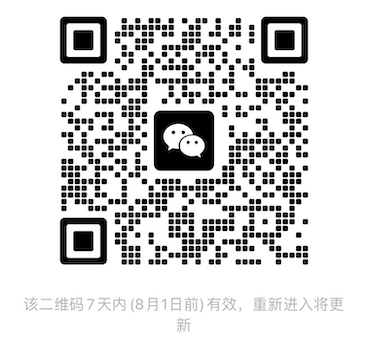
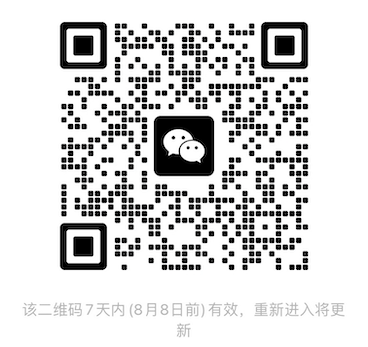
update wechat QRCode

diff --git a/_post_jp/2023-06-27-From Big Data to Graph Computing - Graph On BigData.md b/_post_jp/2023-06-27-From Big Data to Graph Computing - Graph On BigData.md
@@ -1,0 +1,141 @@
+---
+layout: post
+read_time: true
+show_date: true
+show_author: true
+title: "ビッグデータからグラフ計算へ-Graph On BigData"
+date: 2023-06-27
+tags: [大数据, 图计算, TuGraph, GeaFlow, 开源, github]
+category: opinion
+author: 彭志伟
+description: "ビッグデータからグラフ計算へ-Graph On BigData"
+---
+
+## 背景
+
+2003年にGoogleの3つのビッグデータ分野のクラシック論文であるGFS、MapReduce、BigTableが発表されて以来、ビッグデータ領域は大きく発展してきました。特にオープンソースのビッグデータエンジンは、Hadoop、Hive、Storm、Spark、Flink、Prestoなどのさまざまな優れたオープンソースプロジェクトが次々と登場しました。これらのエンジンは、オフライン計算、ストリーム処理、OLAPクエリ、バッチストリームなど、さまざまな計算形態をカバーし、大規模データの処理技術がますます改善され多様化しています。
+
+これらのビッグデータエンジンは主にテーブルモデルのデータを処理しており、処理するデータをテーブルモデルでモデリングして加工処理を行います。テーブルモデルは比較的単純で理解しやすいですが、複雑な関係演算や表現の処理にはかなりの困難さがあります。テーブルモデルは、テーブル間の関連を処理するためにJoinの方法を使用しますが、この方法は大量のシャッフルを引き起こし、実行リソースを増やします。特に関連度が高い場合、Joinの方法の欠点はより明確になります。また、最短パス、k-hopなどの複雑な関係の記述には、SQLのようなテーブルモデルの言語でも表現するのは難しいです。
+
+グラフモデルは、点と辺を基本要素として定義するデータモデルとして、関連関係を自然に記述することができます。グラフモデルでは、点はエンティティを表し、辺は関係を表します。たとえば、ソーシャルネットワークの関係グラフでは、各人は1つの点で表され、人と人の関係は辺で表されます。人と人の間にはさまざまな複雑な関係が存在することがあり、これらの関係はさまざまな辺で表すことができます。グラフモデルをベースにすることで、複雑な関係とその演算をうまく記述できるだけでなく、グラフのストレージモデルは自然に点と辺の関係を格納し、計算面ではより優れた計算パフォーマンスを得ることができます。
+
+![image](../../../../assets/images/posts/20230627/zhuanzhang.png)
+
+## リアルタイムグラフ計算エンジン-GeaFlow
+
+アリペイのリスク管理シナリオでは、環路の存在を確認するために、複数の転送関係を検索する必要があります。ログのアトリビューション分析のシナリオでは、ユーザーの行動パスを分析する必要があります。これらのシナリオでは、一方で関係が複雑であり、一方で計算のリアルタイム性が要求されます。ビジネスは通常、分単位または秒単位の遅延が必要です。また、グラフデータは大きく、数百億または数兆の点エッジスケールに達することがあります。従来のビッグデータエンジンは、Spark GraphXは大規模なグラフデータの処理能力を持っていますが、主にオフライン計算シナリオに特化しており、リアルタイム性の要件を満たすことはできません。Flinkは強力なリアルタイム計算能力を持っており、しかし、多跳のリアルタイムJoin関連計算、特に大規模なデータスケールのシナリオを扱うのが難しいです。
+
+これらの問題と課題に直面したアリペイのグラフ計算チームは、実際の問題に基づいて、数年間の探索と実践の結果、分散リアルタイムグラフ計算エンジンGeaFlow（ブランド名TuGraph-Analytics）を実現しました。GeaFlowは、グラフモデルを基本的なデータモデルとし、グラフモデルを基にグラフ計算のプログラミングインターフェースを定義し、ストリーム処理能力と組み合わせて、ストリームグラフ計算の能力を実現しています。DSL言語のレベルでは、GeaFlowは表処理言語SQLとグラフクエリ言語ISO / GQLを組み合わせて、グラフと表を統合したデータ分析能力を実現しています。GeaFlowのストリームグラフ計算能力により、金融シーンでの大規模なデータの複雑な関連関係のリアルタイム計算の問題をうまく解決しています。
+
+## GeaFlow全体のアーキテクチャ
+
+GeaFlowの全体的なアーキテクチャは、次のレベルで構成されています：
+
+![image](../../../../assets/images/posts/20230627/geaflow_arch.png)
+
+* GeaFlow DSL: GeaFlowはユーザーにグラフとテーブルの統合分析言語を提供し、SQL + ISO / GQLの方式を採用しています。ユーザーは、SQLプログラミングのような方法でリアルタイムグラフ計算タスクを記述することができます。
+* GraphView API: GeaFlowはGraphViewを中心に定義された一連のグラフ計算のプログラミングインターフェースであり、グラフの構築、グラフ計算、ストリームAPIインターフェースを含んでいます。
+* GeaFlowランタイム: GeaFlowランタイムには、GeaFlowグラフオペレータ、タスクスケジューリング、フェイルオーバー、シャッフルなどのコア機能が含まれています。
+* GeaFlowステート: GeaFlowのグラフの状態ストレージであり、グラフの頂点エッジデータを格納するために使用されます。また、ストリーム計算の状態、たとえば集約状態もステートに格納されます。
+* K8Sデプロイメント: GeaFlowはK8Sを使用してデプロイおよび実行することができます。
+* GeaFlowコンソール: GeaFlowの管理プラットフォームであり、ジョブ管理、メタデータ管理などの機能を含んでいます。
+
+## GeaFlowとビッグデータエコシステムの統合
+グラフ計算システムは孤立したシステムではなく、既存のビッグデータエコシステムと統合する必要があります。GeaFlowは、Connectorプラグインを介して主要なビッグデータエコシステムとの連携をサポートしています。例えば、Kafka/Hive/HDFSなどです。Connectorプラグインを使用することで、ビッグデータエコシステムのデータを簡単にグラフ計算システムに統合することができます。以下では、Hiveを例にとって、データウェアハウスのデータをGeaFlowのグラフストレージに取り込み、グラフアルゴリズムを実行する方法について説明します。
+
+### グラフの定義
+
+まず、グラフを定義する必要があります。以下のように、Create Graphステートメントを使用してグラフを定義します：
+```sql
+CREATE GRAPH IF NOT EXISTS friend (
+  Vertex person (
+    id bigint ID,
+    name varchar
+  ),
+  Edge knows (
+    srcId bigint SOURCE ID,
+    targetId bigint DESTINATION ID,
+    weight double
+  )
+) WITH (
+  storeType='rocksdb',
+  shardCount = 1
+);
+```
+このグラフ定義には、点テーブルpersonとエッジテーブルknowsが含まれています。点テーブルpersonでは、点の属性情報とidフィールドが定義されており、idフィールドはグラフ内の点を一意に識別するためのもので、点テーブルの主キーです。idキーワードを使用して定義します。エッジテーブルknowsでは、友人関係が定義されており、srcIdは関係の始点を、SOURCE IDキーワードを使用して定義します。targetIdは関係の対象点を、DESTINATION IDキーワードを使用して定義します。weightフィールドはエッジの属性フィールドです。グラフの点テーブルまたはエッジテーブルは、0つ以上の属性フィールドを含むことができます。
+
+### Hiveテーブルの定義
+
+まず、Hiveの点テーブルとエッジテーブルを定義する必要があります。テーブルには、スキーマ情報やメタストアのURIなどが指定されています：
+
+```sql
+set geaflow.dsl.window.size = -1;
+
+CREATE TABLE IF NOT EXISTS hive_person (
+  id BIGINT,
+  name VARCHAR
+) WITH (
+  type='hive',
+  geaflow.dsl.hive.database.name = 'default',
+  geaflow.dsl.hive.table.name = 'user',
+  geaflow.dsl.hive.metastore.uris = 'thrift://localhost:9083'
+);
+
+CREATE TABLE IF NOT EXISTS hive_knows (
+  src_id BIGINT,
+  target_id BIGINT,
+  weight DOUBLE
+) WITH (
+  type='hive',
+  geaflow.dsl.hive.database.name = 'default',
+  geaflow.dsl.hive.table.name = 'relation',
+  geaflow.dsl.hive.metastore.uris = 'thrift://localhost:9083'
+);
+```
+GeaFlowはストリームグラフ計算エンジンであり、データソースはwindow sizeで一連のwindowに分割され、エンジンはこれらのwindowのデータを順番に処理します。window sizeを-1に設定した場合、All Windowと呼ばれ、すべてのデータを一括処理します。Hiveなどのバッチデータソースインターフェースでは、window sizeを-1に設定して処理する必要があります。
+
+### グラフの構築
+
+グラフの構築は、外部データテーブルのデータをグラフに書き込むことによって行われます。Insertステートメントを使用してこれを行うことができます。以下のステートメントでは、hive_personテーブルとhive_knowsテーブルのデータをfriendグラフのpersonテーブルとknowsテーブルに書き込み、グラフデータの構築を完了します。
+
+```sql
+INSERT INTO friend.person(id, name)
+SELECT
+ id, name
+FROM hive_person
+;
+
+INSERT INTO friend.knows
+SELECT src_id, target_id, weight * 10
+FROM hive_knows
+;
+```
+
+### グラフ計算
+
+次に、構築されたグラフデータに対してグラフアルゴリズムを実行します。ここでは、SSSP（単一始点最短経路）を例に説明します：
+
+```sql
+CREATE TABLE IF NOT EXISTS result (
+  vid int,
+	distance bigint
+) WITH (
+	type='file',
+  `geaflow.file.persistent.config.json` = '{\'fs.defaultFS\':\'namenode:9000\'}',
+	geaflow.dsl.file.path='/path/to/result'
+);
+-- 実行するグラフを定義
+USE GRAPH friend;
+
+INSERT INTO result
+CALL SSSP(1) YIELD (vid, distance)
+RETURN vid, distance
+;
+```
+
+まず、計算結果を格納するresultテーブルを定義し、次にUSE GRAPHステートメントを使用して現在の計算で使用するグラフを設定します。最後に、CALLステートメントを使用してSSSPアルゴリズムを実行します（SSSPアルゴリズムの引数として始点のidを指定します）、そして計算結果をresultテーブルに書き込みます。
+
+# まとめ
+
+本文では、まずGeaFlowグラフ計算エンジンの背景について説明し、次にGeaFlowがどのようにビッグデータエコシステムと統合されるかについて説明しました。そして、Hiveのデータをグラフに変換してSSSPアルゴリズムを実行する方法を例に説明しました。
+

diff --git a/_post_en/2023-06-27-From Big Data to Graph Computing - Graph On BigData.md b/_post_en/2023-06-27-From Big Data to Graph Computing - Graph On BigData.md
@@ -1,0 +1,143 @@
+---
+layout: post
+read_time: true
+show_date: true
+show_author: true
+title: "From Big Data to Graph Computing - Graph On BigData"
+date: 2023-06-27
+tags: [大数据, 图计算, TuGraph, GeaFlow, 开源, github]
+category: opinion
+author: 彭志伟
+description: "From Big Data to Graph Computing - Graph On BigData"
+---
+
+## Background
+
+Since the publication of Google's three classic papers in the field of big data, GFS, MapReduce, and BigTable, in 2003, the field of big data has made significant progress. Especially in the field of open-source big data, various excellent open-source big data engine projects have emerged one after another, including Hadoop, Hive, Storm, Spark, Flink, and Presto. These projects cover various computing forms such as offline computation, stream computation, OLAP queries, and hybrid stream-batch computation, and the processing technologies for big data are becoming more and more advanced and diversified.
+
+These big data engines mainly handle tabular data, that is, the data to be processed is modeled using a tabular model and then processed. Although the tabular model is relatively simple and easy to understand, it has its limitations, especially in dealing with complex relationship operations and expressions. The tabular model mainly uses the Join method to handle the relationship between tables, which introduces a large amount of shuffle and increases running resources. This disadvantage of the Join method becomes more obvious when the degree of association is high. In addition, it is difficult to express complex relationships such as shortest paths and k-hops using the SQL language in the tabular model.
+
+As a data model defined by points and edges, the graph model can naturally describe relationships. In the graph model, points represent entities and edges represent relationships. For example, in a social network graph, each person can be represented by a point, and the relationships between people are represented by edges. There can be various complex relationships between people, which can be represented by different types of edges. Based on the graph model, complex relationships and their operations can be well described. In addition, the storage model of the graph naturally stores the relationships between points and edges, and better computational performance can be obtained at the computation level.
+
+![image](../../../../assets/images/posts/20230627/zhuanzhang.png)
+
+## Real-time Graph Computing Engine - GeaFlow
+
+In the context of Ant Financial's risk control, there are a large number of complex relationship processing tasks, such as finding multi-hop transfer relationships in the anti-money laundering system to check for loops and determine whether users are engaged in money laundering activities; in the log attribution analysis scenario, it is necessary to analyze the user's behavioral path, etc. These scenarios involve complex relationship processing and have high requirements for real-time computation. The business often requires delays of minutes or even seconds. At the same time, the graph data scale can reach billions or even trillions of points and edges. Traditional big data engines cannot meet the above requirements. For example, Spark GraphX has the ability to process large-scale graph data, but it mainly focuses on offline computation scenarios and cannot meet real-time requirements. Flink has powerful real-time computation capabilities, but it is difficult to handle real-time multi-hop Join association computations, especially for scenarios with large data scales.
+
+In the face of these problems and challenges, the graph computing team at Ant Financial has developed a distributed real-time graph computing engine called GeaFlow (branded as TuGraph-Analytics) through years of exploration and practice. GeaFlow uses the graph model as the basic data model and defines a set of graph computing programming interfaces on top of the graph model. It combines with stream processing capabilities to achieve real-time graph computing. At the DSL language level, GeaFlow combines the table processing language SQL with the graph query language ISO/GQL to achieve the data analysis capabilities of graphs and tables. Through the stream graph computing capabilities of GeaFlow, the problem of real-time computation of large-scale data with complex relationship associations in the financial scenario is well solved.
+
+## GeaFlow Overall Architecture
+
+The GeaFlow overall architecture includes the following layers from top to bottom:
+
+![image](../../../../assets/images/posts/20230627/geaflow_arch.png)
+
+* GeaFlow DSL: GeaFlow provides users with a language for combining graph and table analysis, using SQL + ISO/GQL notation. Users can write real-time graph computation tasks in a similar way to programming in SQL.
+* GraphView API: GeaFlow defines a set of graph computing programming interfaces based on GraphView as the core, including graph construction, graph computation, and Stream API interfaces.
+* GeaFlow Runtime: GeaFlow runtime includes GeaFlow graph operators, task scheduling, failover, shuffle, and other core functionalities.
+* GeaFlow State: GeaFlow's graph state storage is used to store the point and edge data of the graph. The state of stream computation, such as aggregation state, is also stored in the State.
+* K8S Deployment: GeaFlow supports deployment and operation using the K8S platform.
+* GeaFlow Console: GeaFlow's control platform includes job management, metadata management, and other functions.
+
+## Integration of GeaFlow with the Big Data Ecosystem
+A graph computing system is not an isolated system; it must be integrated with the existing big data ecosystem to better solve problems in the field of big data. GeaFlow supports integration with mainstream big data ecosystems through Connector plugins, such as Kafka/Hive/HDFS. With the Connector plugin, it is easy to integrate data from the big data ecosystem into the graph computing system. In the following example, we will use Hive to illustrate how to import data from a data warehouse into the GeaFlow graph storage and run a graph algorithm.
+
+### Graph Definition
+
+First, we need to define a graph using the Create Graph syntax:
+```sql
+CREATE GRAPH IF NOT EXISTS friend (
+  Vertex person (
+    id bigint ID,
+    name varchar
+  ),
+  Edge knows (
+    srcId bigint SOURCE ID,
+    targetId bigint DESTINATION ID,
+    weight double
+  )
+) WITH (
+  storeType='rocksdb',
+  shardCount = 1
+);
+```
+This graph definition includes the point table person and the edge table knows. The point table person defines the attribute information of the point and the id field, which uniquely identifies the points in the graph and serves as the primary key of the point table, defined using the ID keyword. The edge table knows defines the friend relationship, where srcId is the starting point of the relationship, defined using the SOURCE ID keyword, and targetId is the target point of the relationship, defined using the DESTINATION ID keyword. The weight field is an attribute field of the edge. A graph can have zero or more attribute fields in its point or edge table.
+
+### Hive Table Definition
+
+First, we need to define a Hive point table and a Hive edge table, specifying the schema information and metastore URI of the tables:
+
+```sql
+set geaflow.dsl.window.size = -1;
+
+CREATE TABLE IF NOT EXISTS hive_person (
+  id BIGINT,
+  name VARCHAR
+) WITH (
+  type='hive',
+  geaflow.dsl.hive.database.name = 'default',
+  geaflow.dsl.hive.table.name = 'user',
+  geaflow.dsl.hive.metastore.uris = 'thrift://localhost:9083'
+);
+
+CREATE TABLE IF NOT EXISTS hive_knows (
+  src_id BIGINT,
+  target_id BIGINT,
+  weight DOUBLE
+) WITH (
+  type='hive',
+  geaflow.dsl.hive.database.name = 'default',
+  geaflow.dsl.hive.table.name = 'relation',
+  geaflow.dsl.hive.metastore.uris = 'thrift://localhost:9083'
+);
+```
+
+GeaFlow is a stream graph computing engine, and the data source is divided into a series of windows according to the window size, and the engine processes the data of these windows in sequence. If the window size is set to -1, it represents an "All Window," which means processing all data in one go. For batch data sources like Hive, the window size needs to be set to -1 for processing.
+
+### Graph Construction
+
+Graph construction is the process of writing external data table data into the graph. This can be done using INSERT statements. The following statements will insert the data from the Hive tables into the person and knows tables of the friend graph, completing the construction of the graph data.
+
+```sql
+INSERT INTO friend.person(id, name)
+SELECT
+ id, name
+FROM hive_person
+;
+
+INSERT INTO friend.knows
+SELECT src_id, target_id, weight * 10
+FROM hive_knows
+;
+```
+
+### Graph Computation
+
+Next, we need to perform graph algorithm computations on the constructed graph data. Let's take Single-Source Shortest Path (SSSP) as an example:
+
+```sql
+CREATE TABLE IF NOT EXISTS result (
+  vid int,
+	distance bigint
+) WITH (
+	type='file',
+  `geaflow.file.persistent.config.json` = '{\'fs.defaultFS\':\'namenode:9000\'}',
+	geaflow.dsl.file.path='/path/to/result'
+);
+-- Define the graph to be used for computation
+USE GRAPH friend;
+
+INSERT INTO result
+CALL SSSP(1) YIELD (vid, distance)
+RETURN vid, distance
+;
+```
+
+First, we need to define a result table to store the computation results, and then use the USE GRAPH command to set the current graph for computation. Finally, use the CALL statement to execute the SSSP algorithm (where the parameter of the SSSP algorithm is the starting point ID) and write the computation results to the result table.
+
+# Conclusion
+
+This article first introduces the historical background of the graph computing engine GeaFlow, and then explains how GeaFlow integrates with the big data ecosystem. Through an example, we demonstrate how to transform data from Hive into a graph and run an SSSP algorithm on the graph.
+
+
